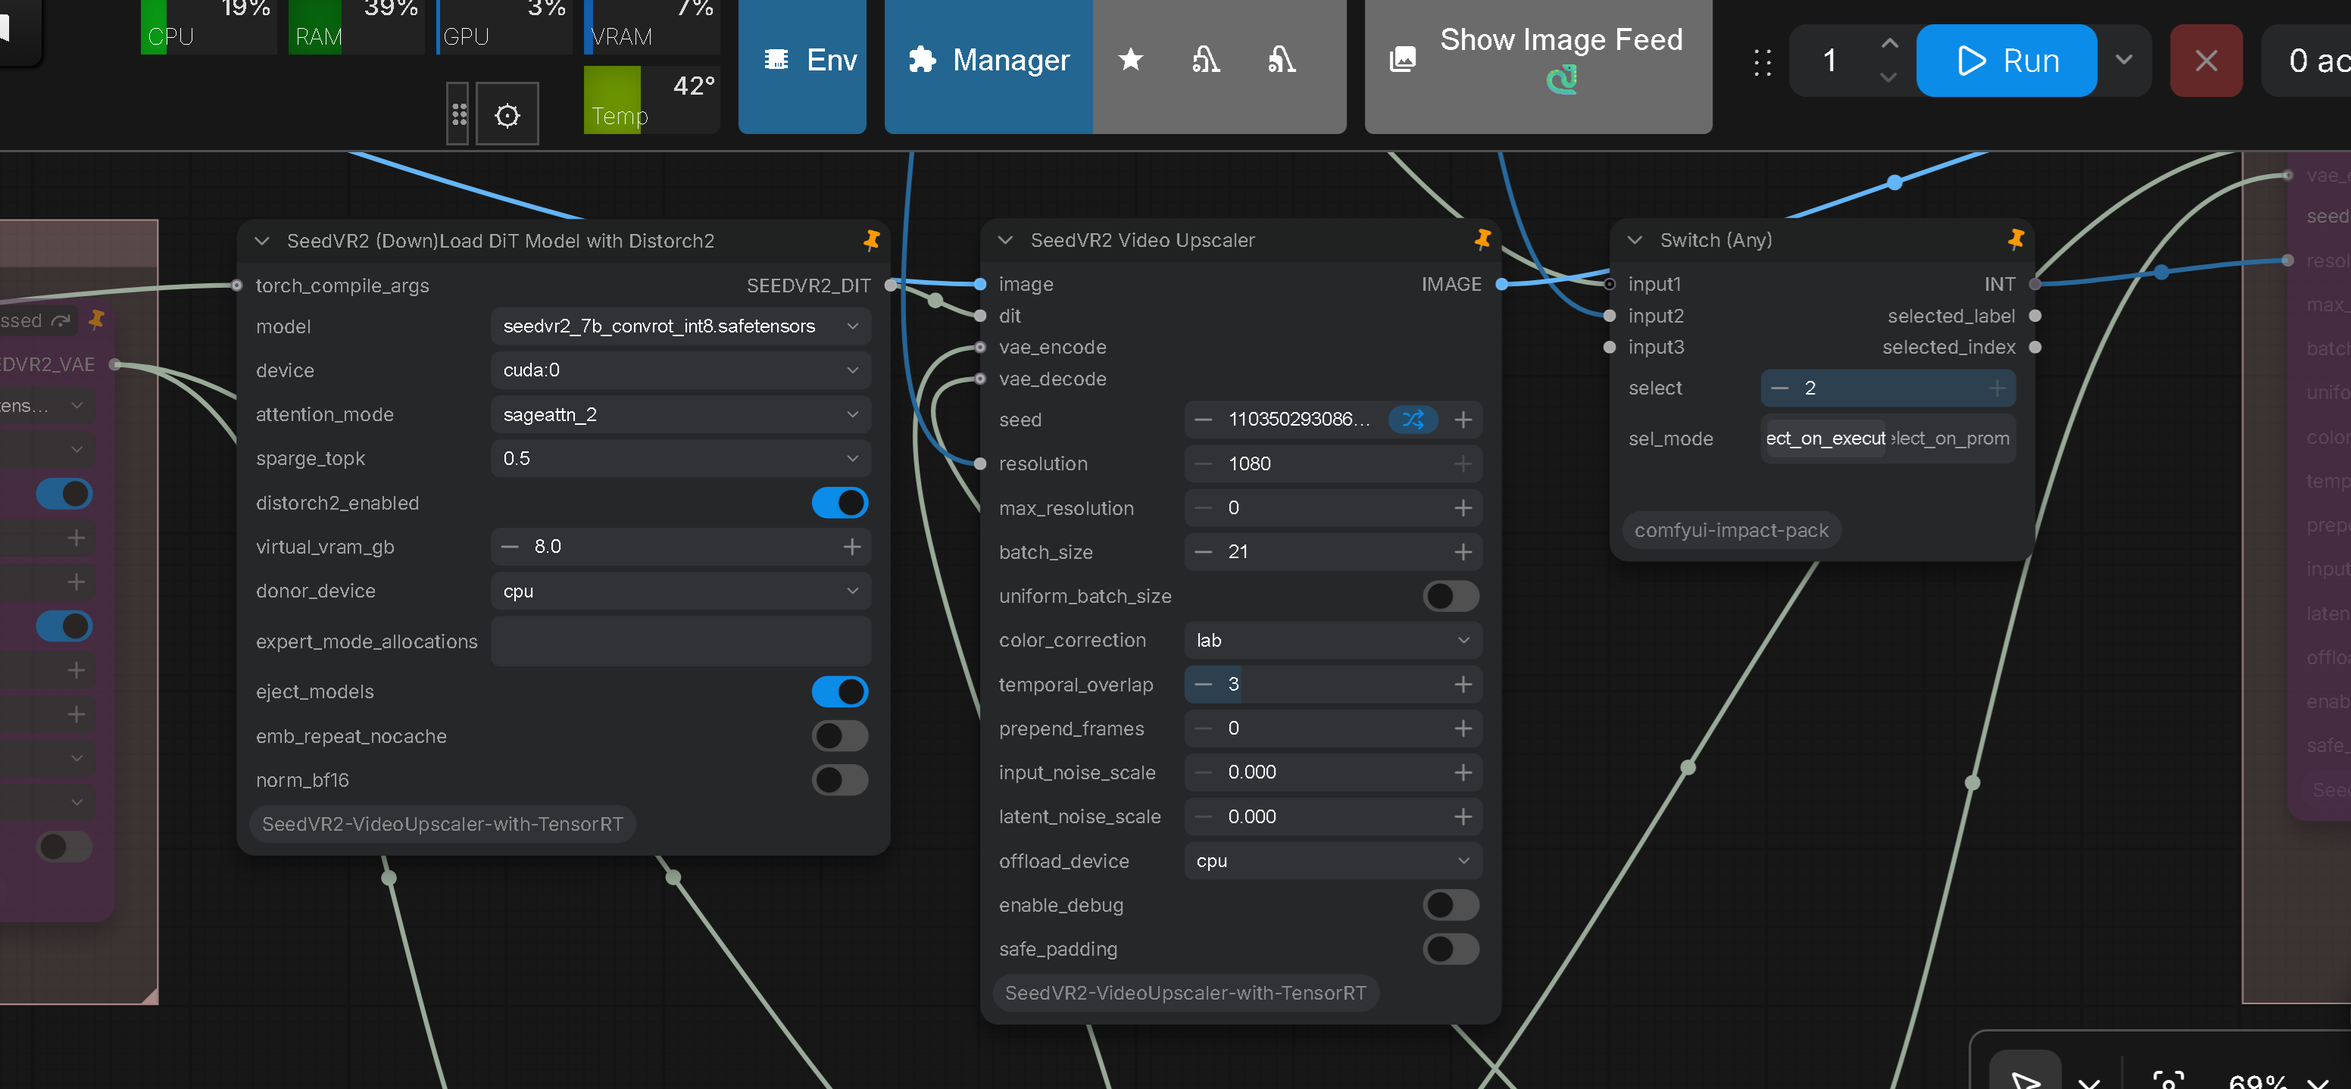
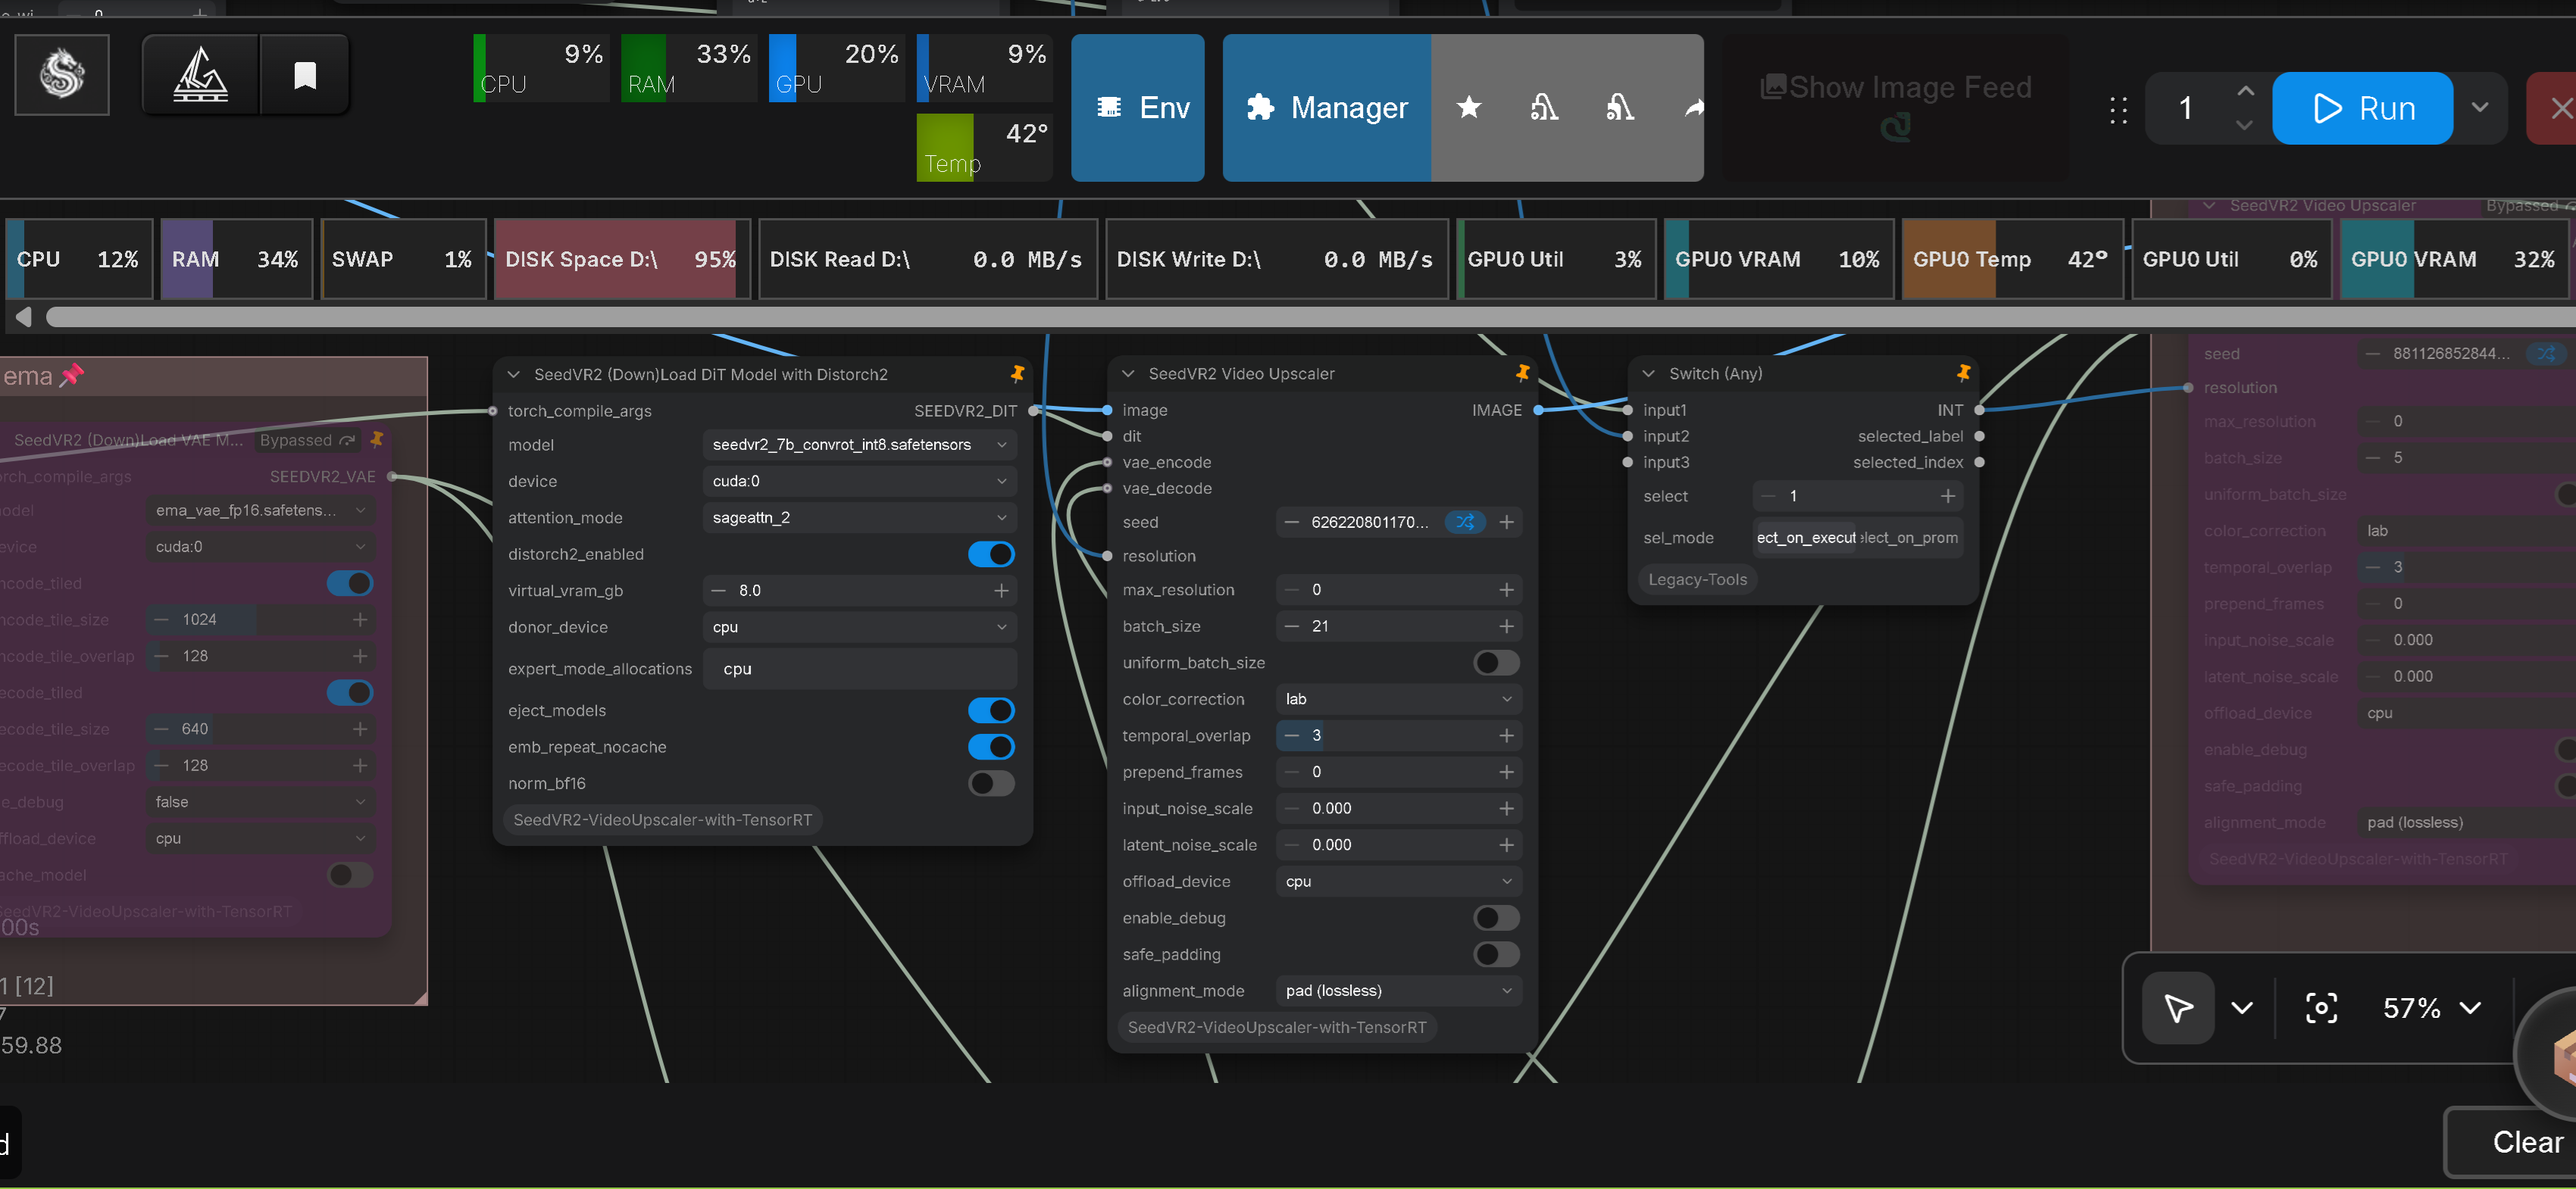
docs: add v1.7.0 changelog entry for alignment_mode resolution grid selector

diff --git a/md/changelog.md b/md/changelog.md
@@ -7,6 +7,14 @@
 
 # Changelog
 
+## v1.7.0 — 2026-10-23
+- **Summary:** Added `alignment_mode` resolution grid alignment selector to SeedVR2 Video Upscaler:
+  - **`alignment_mode` Input Selector:** Introduced a dedicated combo input (`pad (lossless)`, `crop_16`, `crop_32`, `crop_64`) on `SeedVR2 Video Upscaler` to control how non-standard resolutions and arbitrary aspect ratios are aligned to the model's spatial divisible grid:
+    - **`pad (lossless)` (Default):** Applies reflection padding (`DivisiblePad`) up to a 16-multiple without altering the native image content, restoring original dimensions losslessly after decoding.
+    - **`crop_16` (Original SeedVR2 Behavior):** Truncates odd remainder dimensions to the nearest multiple of 16 using center-crop (`DivisibleCrop(16)`), completely eliminating padding-induced edge artifacts on custom aspect ratios by eliminating padding altogether.
+    - **`crop_32` / `crop_64`:** Center-crops odd dimensions to multiples of 32 or 64 for strict alignment constraints.
+- **Technical Details:** See [v1.7.0 Release Notes](https://github.com/ussoewwin/ComfyUI-SeedVR2-VideoUpscaler-with-TensorRT/releases/tag/v1.7.0) for complete explanation
+
 ## v1.6.9 — 2026-10-23
 - **Summary:** Systematic VRAM contamination elimination & deep memory reclamation architecture:
   - **Pre- and Post-Execution ComfyUI Model & Cache Purge:** Integrated explicit model eviction and cache drainage (`mm.cleanup_models_gc()`, `mm.cleanup_models()`, `mm.soft_empty_cache(force=True)`, and `torch.cuda.synchronize()`) before and after upscaler execution in `video_upscaler.py`. Completely purges lingering resident models and tensor remnants left behind by predecessor nodes in the workflow.

diff --git a/zhmd/changelogzh.md b/zhmd/changelogzh.md
@@ -7,6 +7,14 @@
 
 # 更新日志
 
+## v1.7.0 — 2026-10-23
+- **摘要：** SeedVR2 Video Upscaler 节点新增 `alignment_mode`（分辨率网格对齐方式选择）：
+  - **`alignment_mode` 组合选择控件：** 在 `SeedVR2 Video Upscaler` 节点中新增专用选项（`pad (lossless)`、`crop_16`、`crop_32`、`crop_64`），用于精准控制非标分辨率与任意长宽比在对齐模型空间整倍数网格时的处理机制：
+    - **`pad (lossless)`（默认）：** 采用反射填充（`DivisiblePad`）将图像尺寸扩展至 16 的倍数，在解码后无损裁剪恢复原生目标长宽比与像素规格。
+    - **`crop_16`（SeedVR2 原生默认行为）：** 采用居中裁剪（`DivisibleCrop(16)`）将非整倍数端数截断至最近的 16 倍数，彻底不引入任何填充区域，从根本上杜绝填充边界在特定长宽比下可能产生的边缘瑕疵。
+    - **`crop_32` / `crop_64`：** 将端数尺寸居中裁剪至 32 或 64 的整数倍，以适配高阶网格对齐约束。
+- **技术细节：** 参见 [v1.7.0 发行说明](v1.7.0.md) 获取完整说明
+
 ## v1.6.9 — 2026-10-23
 - **摘要：** 系统性显存（VRAM）污染消除与深度内存回收架构：
   - **执行前后 ComfyUI 驻留模型与缓存强制排空：** 在 `video_upscaler.py` 中引入执行前与执行后的强制清理机制（`mm.cleanup_models_gc()`、`mm.cleanup_models()`、`mm.soft_empty_cache(force=True)` 与 `torch.cuda.synchronize()`），彻底驱逐工作流前置节点遗留的常驻模型与显存残片。
